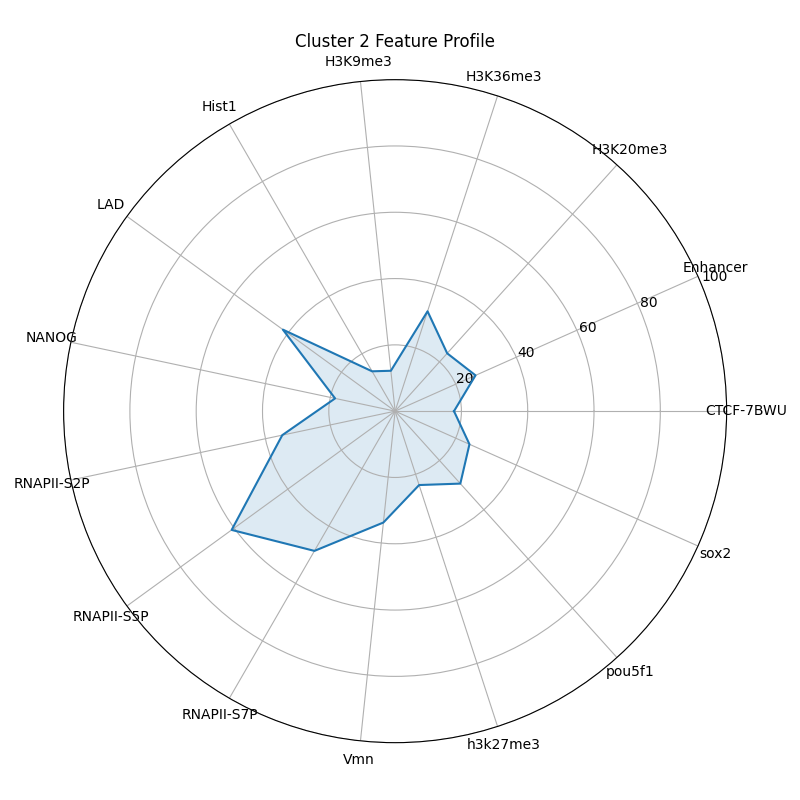
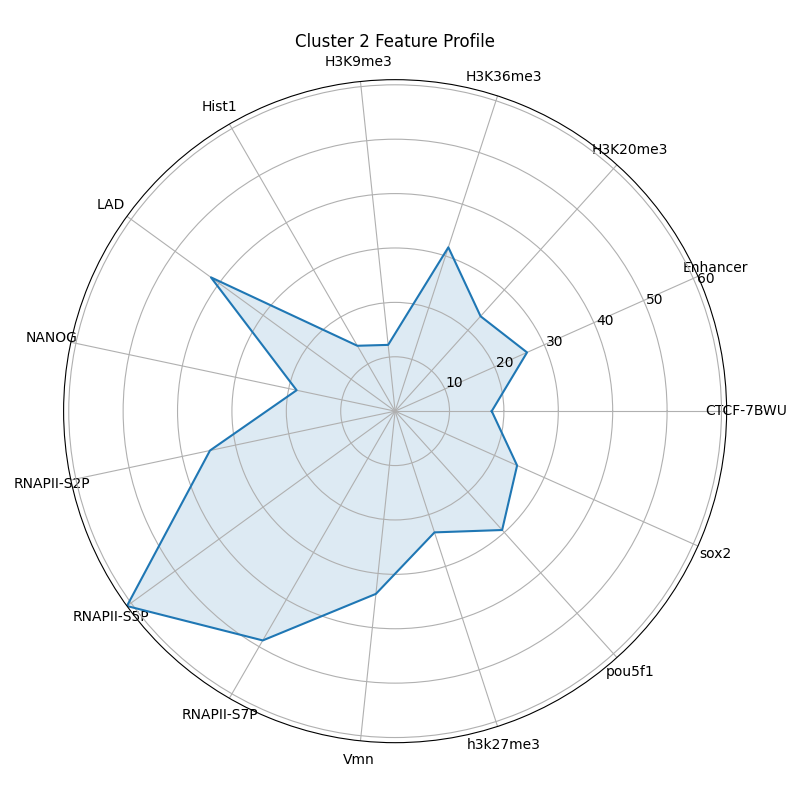
Activity 4 Fin

diff --git a/activities/functions.py b/activities/functions.py
@@ -452,10 +452,11 @@ def compute_all_feat_stats(df, feat, clusters, desired_feats: list[str]):
                 total_windows = 0
                 
                 for i in range(len(df)):
+                    # total_windows += 1
                     if df.iloc[i][np_name] == 1:
                         total_windows += 1
-                        if feat.iloc[i][feature] == 1:
-                            feature_count += 1
+                    if df.iloc[i][np_name] == 1 and feat.iloc[i][feature] == 1:
+                        feature_count += 1
                 if total_windows > 0:
                     feat_percent = (feature_count / total_windows) * 100
                 else:
@@ -492,7 +493,8 @@ def plot_radar(cluster_id, row):
 
     ax.set_xticks(angles[:-1])
     ax.set_xticklabels(features)
-    ax.set_ylim(0, 100)
+    y_max = max(values)
+    ax.set_ylim(0, y_max)
 
     ax.set_title(f"Cluster {cluster_id} Feature Profile")
     plt.tight_layout()
